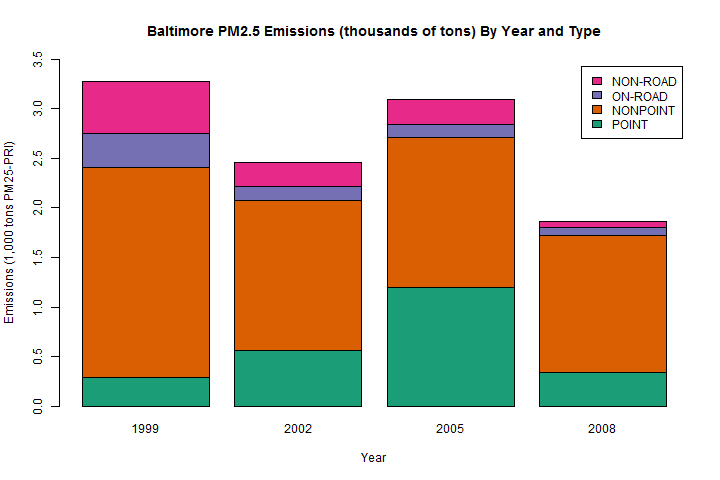
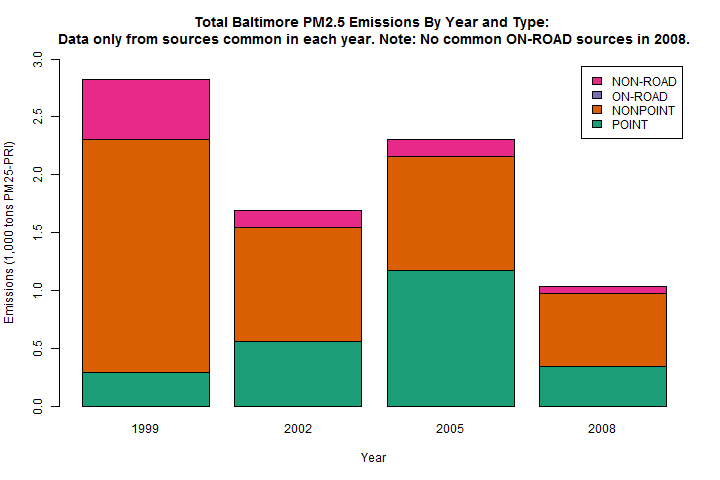
add source normalization were appropriate, lots of comments

diff --git a/README.md b/README.md
@@ -37,6 +37,7 @@ The following descriptions of the 6 variables in the dataset are as follows:
   <ul>
     <li>Using the base plotting system, a plot showing the total PM2.5 emissions from all sources for each of the years 1999, 2002, 2005, and 2008 was constructed as shown in <b><a href="#id-plot1">Plot 1</a></b> below.</li>
     <li><b><a href="#id-plot1">Plot 1</a></b> suggests that PM25 emissions have decreased every 3 years from 1999 to 2008.</li>
+    <li>To make the comparison more meaningful, only records with sources that were common across the years 1999, 2002, 2005, and 2008 were used.</li>
   </ul>
 </li>
 <li>Have total emissions from PM2.5 decreased in the Baltimore City, Maryland (fips == "24510") from 1999 to 2008? Use the base plotting system to make a plot answering this question.
@@ -44,6 +45,7 @@ The following descriptions of the 6 variables in the dataset are as follows:
     <li>A logical follow-up question would be if total emissions had not decreased, what source(s) prevented it?</li>
     <li>Using the base plotting system, a stacked bar chart showing PM2.5 emissions for Baltimore from all sources for each of the years 1999, 2002, 2005, and 2008 by source type was constructed as shown in <b><a href="#id-plot2">Plot 2</a></b> below.</li>
     <li>Total PM2.5 decreased in 3 of the 4 three-year time periods.  A rise in <b>POINT</b> emissions in 2005 caused the overall emissions for 2005 to increase from 2002 levels.  In spite of spike in 2005 emission levels, Baltimore PM2.5 emissions were lower in 2008 than they were in 1999, 2002, or 2005.</li>
+    <li>To make the comparison more meaningful, only records with sources that were common across the years 1999, 2002, 2005, and 2008 were used.  This caused the <b>ON-ROAD</b> reading to get dropped because the sources common in 1999, 2002, 2005 for this type did not exist in 2008.</li>
   </ul>
 </li>
 <li>Of the four types of sources indicated by the type (point, nonpoint, onroad, nonroad) variable, which of these four sources have seen decreases in emissions from 1999 - 2008 for Baltimore City? Which have seen increases in emissions from 1999 - 2008? Use the <b>ggplot2</b> plotting system to make a plot answering this question.
@@ -51,6 +53,7 @@ The following descriptions of the 6 variables in the dataset are as follows:
     <li>Using the <b>ggplot2</b> system, a multi-line chart showing PM2.5 emissions for Baltimore from all sources for each of the years 1999, 2002, 2005, and 2008 by source type was constructed as shown in <b><a href="#id-plot3">Plot 3</a></b> below.</li>
     <li>The POINT source increased from 1999 to 2002 and from 2002 to 2005 before declining below the 2005 level in 2008</li>
     <li>NON-ROAD, NONPOINT, and ON-ROAD sources declined from 1999 to 2002, were flat from 2002 to 2005 and then declined again from 2005 to 2008.</li>
+    <li>All sources were used to generate this plot in order to illustrate all four types.</li>
   </ul>
 </li>
 <li>Across the United States, how have emissions from coal combustion-related sources changed from 1999 - 2008?
@@ -59,6 +62,7 @@ The following descriptions of the 6 variables in the dataset are as follows:
     </li>
     <li>Using the <b>ggplot2</b> system, a 1 x 2 panel plot showing PM2.5 emissions for both coal combustion-related and non-coal sources for each of the years 1999, 2002, 2005, and 2008 was constructed as shown in <b><a href="#id-plot4">Plot 4</a></b> below.</li>
     <li>Although coal combustion-related emissions rose slightly from 2002 to 2005, over the 1999 to 2008 period, they had fallen significantly.  Emissions from non-coal sources had fallen over each 3 year period between 1999 and 2008 as well.</li>
+    <li>To make this comparison more meaningful, only records with sources that were common across the years 1999, 2002, 2005, and 2008 were used.  This caused the <b>ON-ROAD</b> reading to get dropped because the sources common in 1999, 2002, 2005 for this type did not exist in 2008.</li>
   </ul>
 </li>
 <li>How have emissions from motor vehicle sources changed from 1999 - 2008 in Baltimore City?
@@ -66,6 +70,7 @@ The following descriptions of the 6 variables in the dataset are as follows:
     <li>The criteria used for determine which records are considered "motor vehicle sources" is any record with an <b>EI.Sector</b> field value that contains the string "mobile" followed by the string "road" ignoring case.</li>
     <li>Using the <b>ggplot2</b> system, a stacked bar chart showing PM2.5 emissions for both NON-ROAD and ON-ROAD types for each of the years 1999, 2002, 2005, and 2008 was constructed as shown in <b><a href="#id-plot5">Plot 5</a></b> below.</li>
     <li>The chart shows that the overall vehicle emissions has fallen in each of the periods between 1999 and 2008 and that most of this decline has been driven by the fall in ON-ROAD emissions</li>
+    <li>All sources were used to generate this plot in order to illustrate the <b>ON-ROAD</b> type.</li>
   </ul>
 </li>
 <li>Compare emissions from motor vehicle sources in Baltimore City with emissions from motor vehicle sources in Los Angeles County, California (fips == "06037"). Which city has seen greater changes over time in motor vehicle emissions?
@@ -73,6 +78,7 @@ The following descriptions of the 6 variables in the dataset are as follows:
     <li>The criteria used for determine which records are considered "motor vehicle sources" is any record with an <b>EI.Sector</b> field value that contains the string "mobile" followed by the string "road" ignoring case.</li>
     <li>Using the <b>ggplot2</b> system, a 1 x 2 panel plot showing PM2.5 emissions normalized to 1999 levels for both Baltimore city and Los Angeles county for each of the years 1999, 2002, 2005, and 2008 was constructed as shown in <b><a href="#id-plot6">Plot 6</a></b> below.</li>
     <li>Baltimore emissions declined durng each of the 3 year periods between 1999 and 2008.  Los Angeles county emissions increased from 1999 to 2002 and again from 2002 to 2005 before showing it first decrease from 2005 to 2008 to a level that was still above its 1999 level.</li>
+    <li>To make this comparison more meaningful, only records with sources that were common across the years 1999, 2002, 2005, and 2008 were used.  This caused the <b>ON-ROAD</b> reading to get dropped because the sources common in 1999, 2002, 2005 for this type did not exist in 2008.</li>
   </ul>
 </li>
 </ol>
